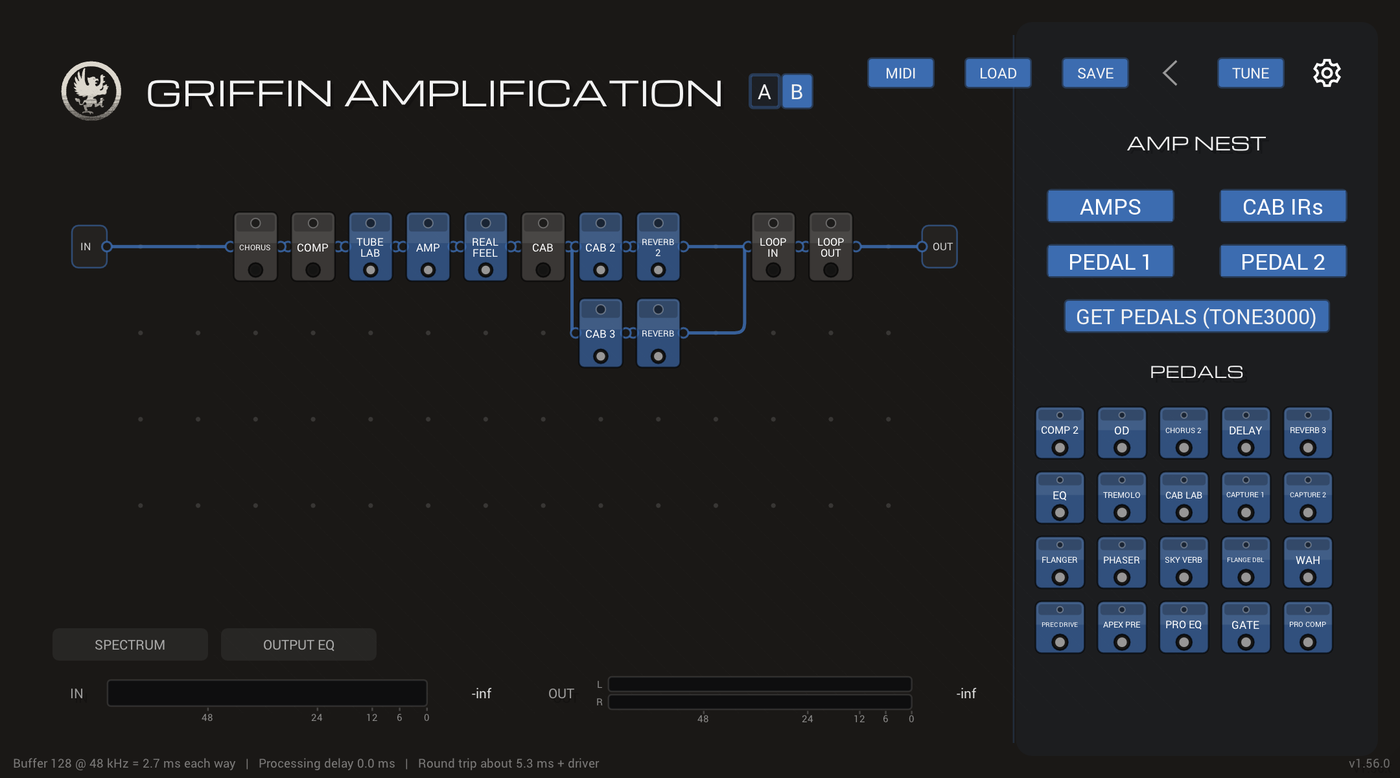
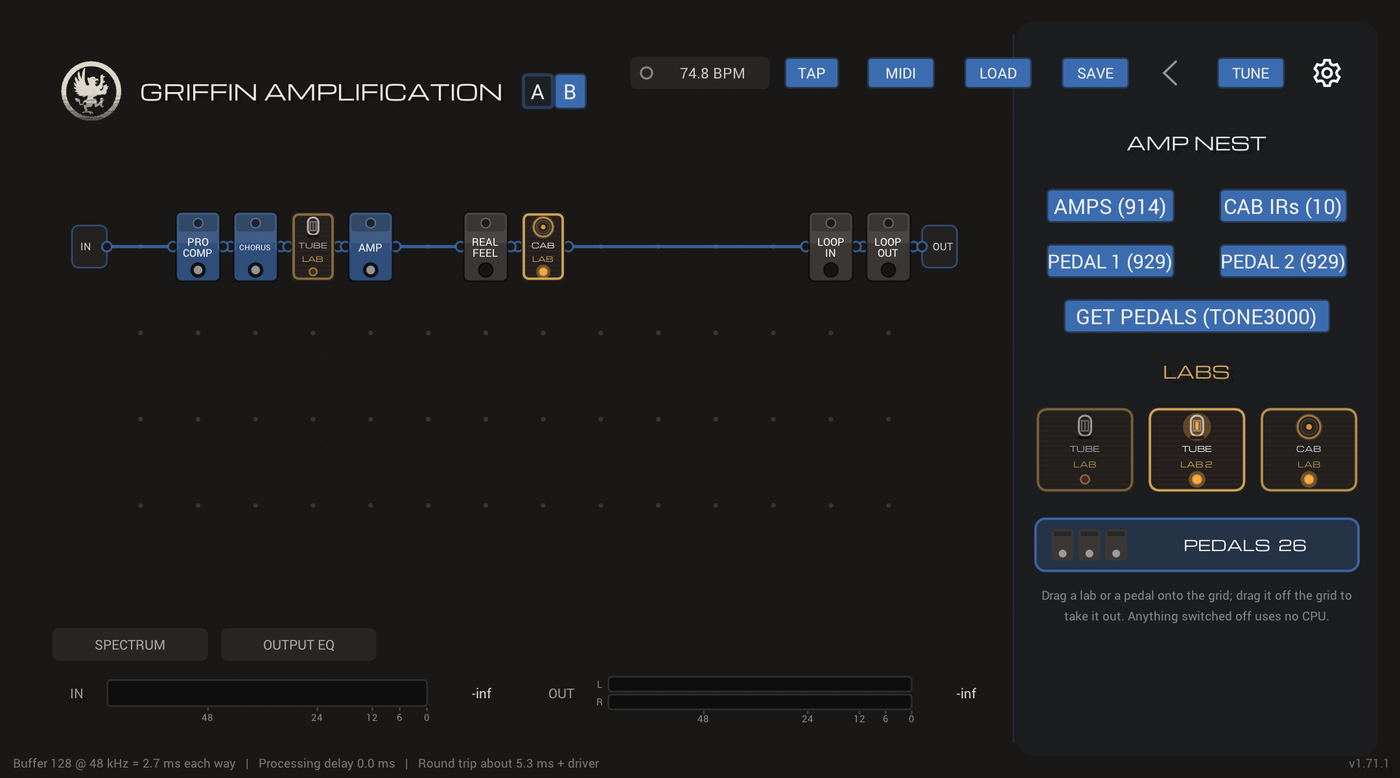
1.71.1: the title fits again; README screenshots of the Tube Lab and Speaker Lab

diff --git a/NeuralAmpModeler/NeuralAmpModeler.cpp b/NeuralAmpModeler/NeuralAmpModeler.cpp
@@ -1219,8 +1219,22 @@ NeuralAmpModeler::NeuralAmpModeler(const InstanceInfo& info)
         g.DrawFittedBitmap(logoBitmap, r);
       },
       DEFAULT_ANIMATION_DURATION, false, false, kNoParameter, true));
-    pGraphics->AttachControl(
-      new IVLabelControl(titleLabelArea.GetReducedFromLeft(logoSize + 8.f), "GRIFFIN AMPLIFICATION", titleStyle));
+    // 1.71.1: the title shrinks to fit (TAP and the BPM counter narrowed its space; at a fixed size it was
+    // cut off at both ends).
+    {
+      const IRECT titleTextArea = titleLabelArea.GetReducedFromLeft(logoSize + 8.f);
+      IText titleText = titleStyle.valueText;
+      IRECT measured;
+      while (titleText.mSize > 12.f)
+      {
+        pGraphics->MeasureText(titleText, "GRIFFIN AMPLIFICATION", measured);
+        if (measured.W() <= titleTextArea.W() - 4.f)
+          break;
+        titleText.mSize -= 1.f;
+      }
+      pGraphics->AttachControl(
+        new IVLabelControl(titleTextArea, "GRIFFIN AMPLIFICATION", titleStyle.WithValueText(titleText)));
+    }
     // Build version, so it's always clear which build is running (see CHANGELOG.md). Small, out of
     // the way in the window's bottom-right corner.
     pGraphics->AttachControl(new IVLabelControl(

diff --git a/NeuralAmpModeler/config.h b/NeuralAmpModeler/config.h
@@ -1,7 +1,7 @@
 #define PLUG_NAME "Griffin Amplification"
 #define PLUG_MFR "Griffin Wojtowicz"
-#define PLUG_VERSION_HEX 0x00014700
-#define PLUG_VERSION_STR "1.71.0"
+#define PLUG_VERSION_HEX 0x00014701
+#define PLUG_VERSION_STR "1.71.1"
 // 1.57.0: Griffin Amplification's own IDs, so a DAW can tell it apart from the plug-in it was forked
 // from (the VST3 class IDs are made from these two).
 #define PLUG_UNIQUE_ID 'GrAm'

diff --git a/README.md b/README.md
@@ -46,6 +46,7 @@ can play a captured amp and the simulated one in the same chain.
 - [Tube Lab: a real circuit, simulated](#tube-lab-a-real-circuit-simulated)
   - [Example: what Drive does](#example-what-drive-does)
   - [Example: the debug page's schematic and oscilloscope](#example-the-debug-pages-schematic-and-oscilloscope)
+- [Cab Lab: place the mics in 3D](#cab-lab-place-the-mics-in-3d)
 - [EQ with a live analyzer](#eq-with-a-live-analyzer)
   - [Example: tightening a high-gain rig](#example-tightening-a-high-gain-rig)
 - [Everything else](#everything-else)
@@ -190,6 +191,24 @@ running. The sound is bit-for-bit the same with them on or off.
 
 ---
 
+## Cab Lab: place the mics in 3D
+
+<p align="center">
+  <img src="docs/images/app-speaker-lab.png" alt="The SPEAKER LAB: front, side and 3D views of a 2x12 with four mics, their combined response, and the selected mic's settings" width="100%">
+</p>
+
+**CAB LAB** models the speaker cab and the mics on it. Its **SPEAKER LAB** page shows the cab from
+the front, the side and in 3D, and you drag the mics where you want them:
+
+- **Cabs:** 4x12, 2x12, 1x12 or 4x10, with a choice of speakers, or your own IR. Switch to **Dual** for
+  two cabs at once, and put each mic on either one.
+- **Four mics** from ten types (SM57, R-121 ribbon, MD421, U87, C414 and more). Each has its own X, Y
+  and Z (distance from the grille), level, pan and polarity flip.
+- **What you hear, explained:** the response graph shows each close mic and the blend. The readout
+  says how far the mic is from each cone, how far off axis, and how much proximity bass it picks up.
+
+---
+
 ## EQ with a live analyzer
 
 <p align="center">
@@ -227,15 +246,18 @@ range comes forward, and the top octave falls away instead of fizzing.
 
 ## Everything else
 
-- **CAB LAB:** a speaker cab (modeled speakers or an IR), two mics from six types with position,
-  distance and pan, and a stereo room. There are also three IR loaders: CAB, CAB 2 and CAB 3.
+- **Cab IRs:** besides CAB LAB, there are three IR loaders: CAB, CAB 2 and CAB 3.
+- **Capture packs:** the **PACK** dropdown in the AMP block switches between the captures of one pack
+  (a folder or a `.zip`), level-matched.
+- **Tap tempo:** **TAP** in the top bar (or a footswitch) sets the tempo, and each delay follows it as
+  a 1/4, dotted 1/8, 1/8, triplet or 1/16 note.
 - **GATE and PRO COMP:** a gate that can key off your clean guitar even when it sits after a
   high-gain amp, and a studio compressor with Clean, Opto and FET styles and a gain-reduction meter.
 - **Pedals:** up to three copies of each effect, each with its own knobs and popup.
 - **A/B amp slots:** two amp captures, each with its own cab IRs, switchable instantly.
 - **MIDI:** click **MIDI** in the top bar to map footswitches and expression pedals to any knob or switch.
-- **Output:** Master Out, a lookahead limiter (0.7 ms), a soft safety clip, and a **Mono** switch that
-  sums left and right for a single speaker.
+- **Output:** Master Out, a lookahead limiter (0.7 ms), a soft safety clip, and stereo **Width** (0%
+  sums left and right for a single speaker).
 - **Themes:** several color themes, in light or dark.
 
 ---

diff --git a/CHANGELOG.md b/CHANGELOG.md
@@ -8,6 +8,11 @@ that gets used, and add an entry here.
 - **Minor** (1.8.0): new features.
 - **Patch** (1.8.1): fixes only.
 
+## 1.71.1 (2026-10-23)
+
+- **The title fits again.** 1.71.0's TAP button and BPM counter narrowed the space for the title, and
+  at its fixed size "GRIFFIN AMPLIFICATION" was cut off at both ends. It now shrinks to fit.
+
 ## 1.71.0 (2026-10-22)
 
 - **Tap tempo and a BPM counter** in the header, left of MIDI.
